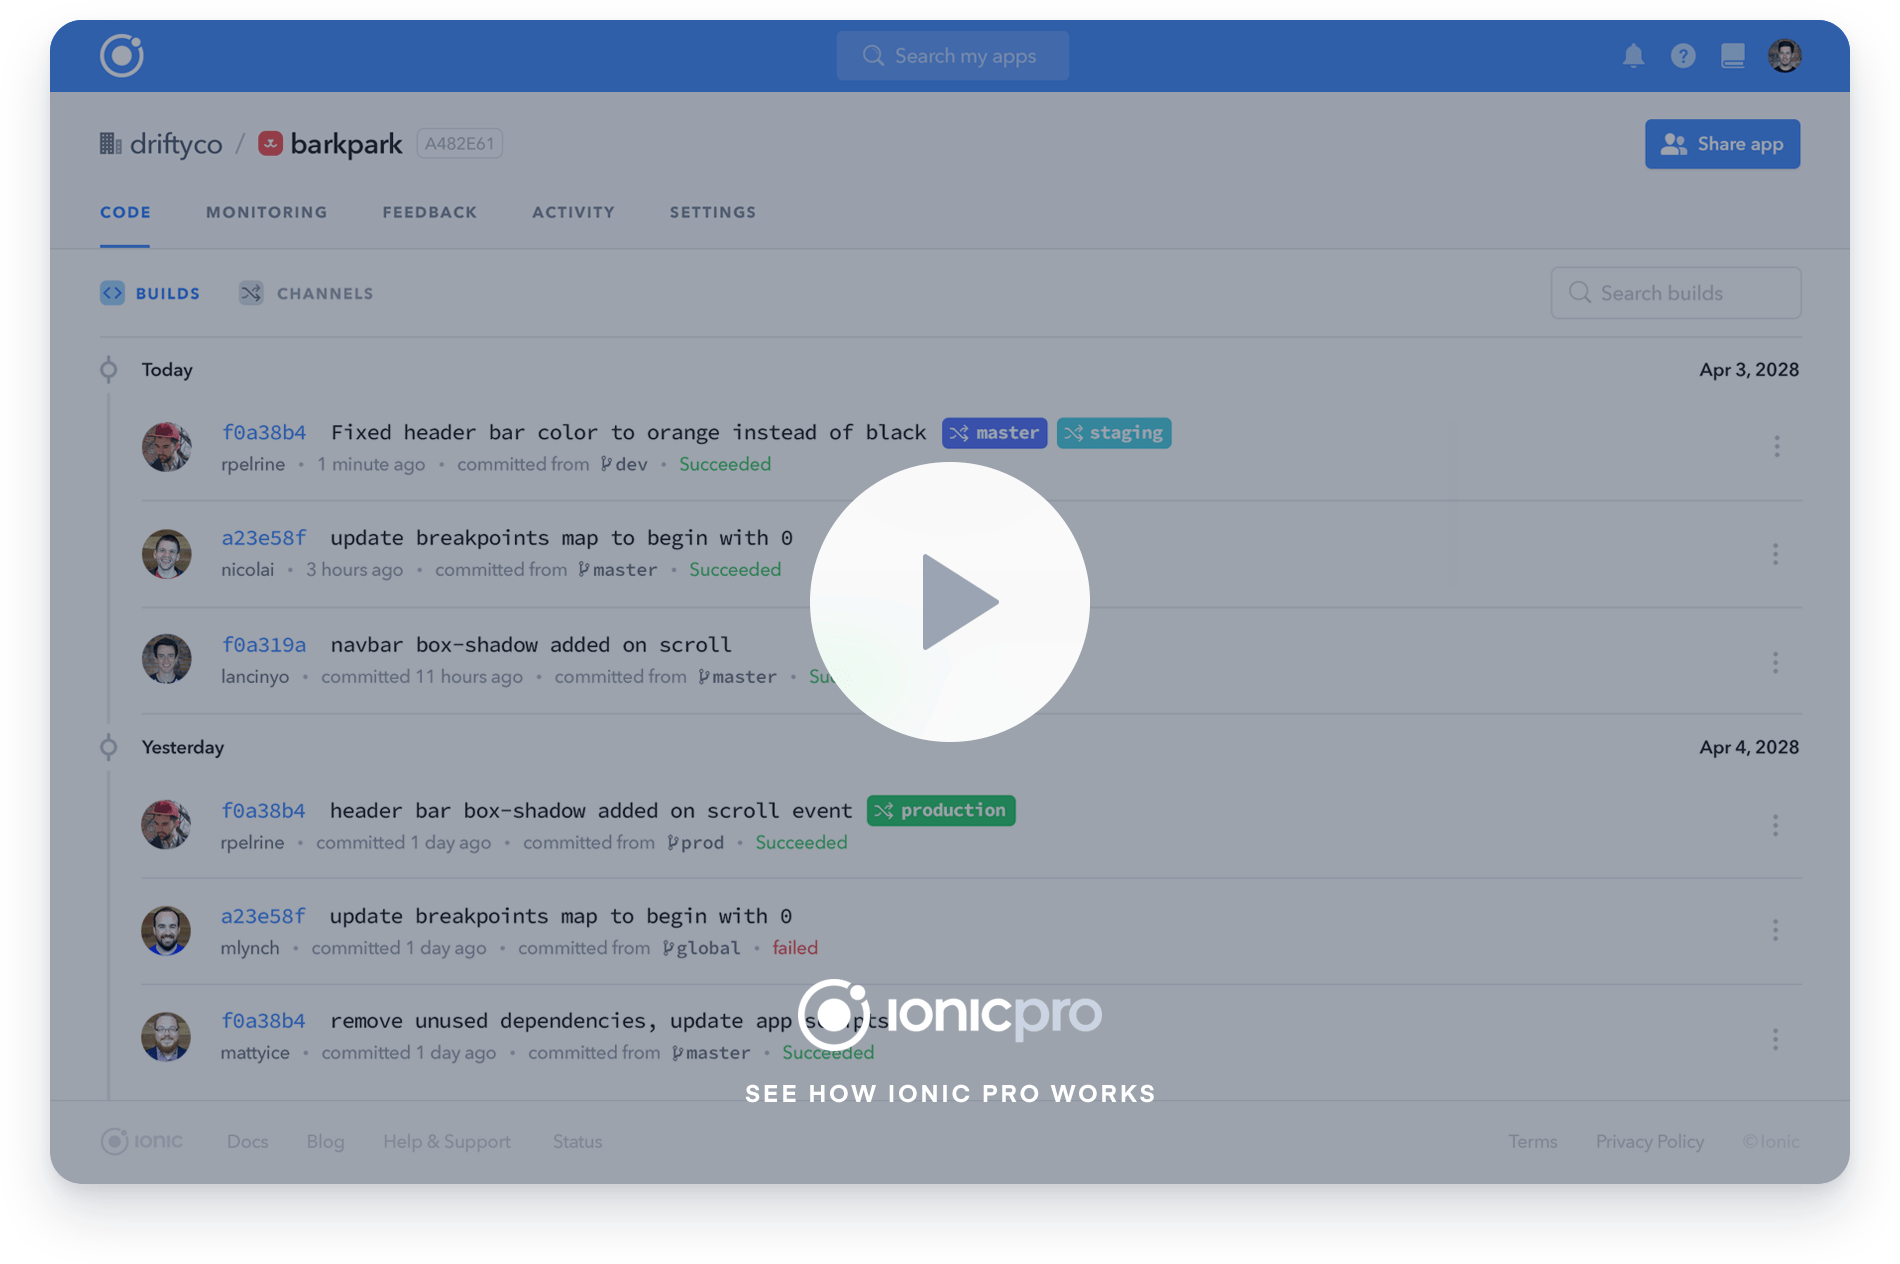
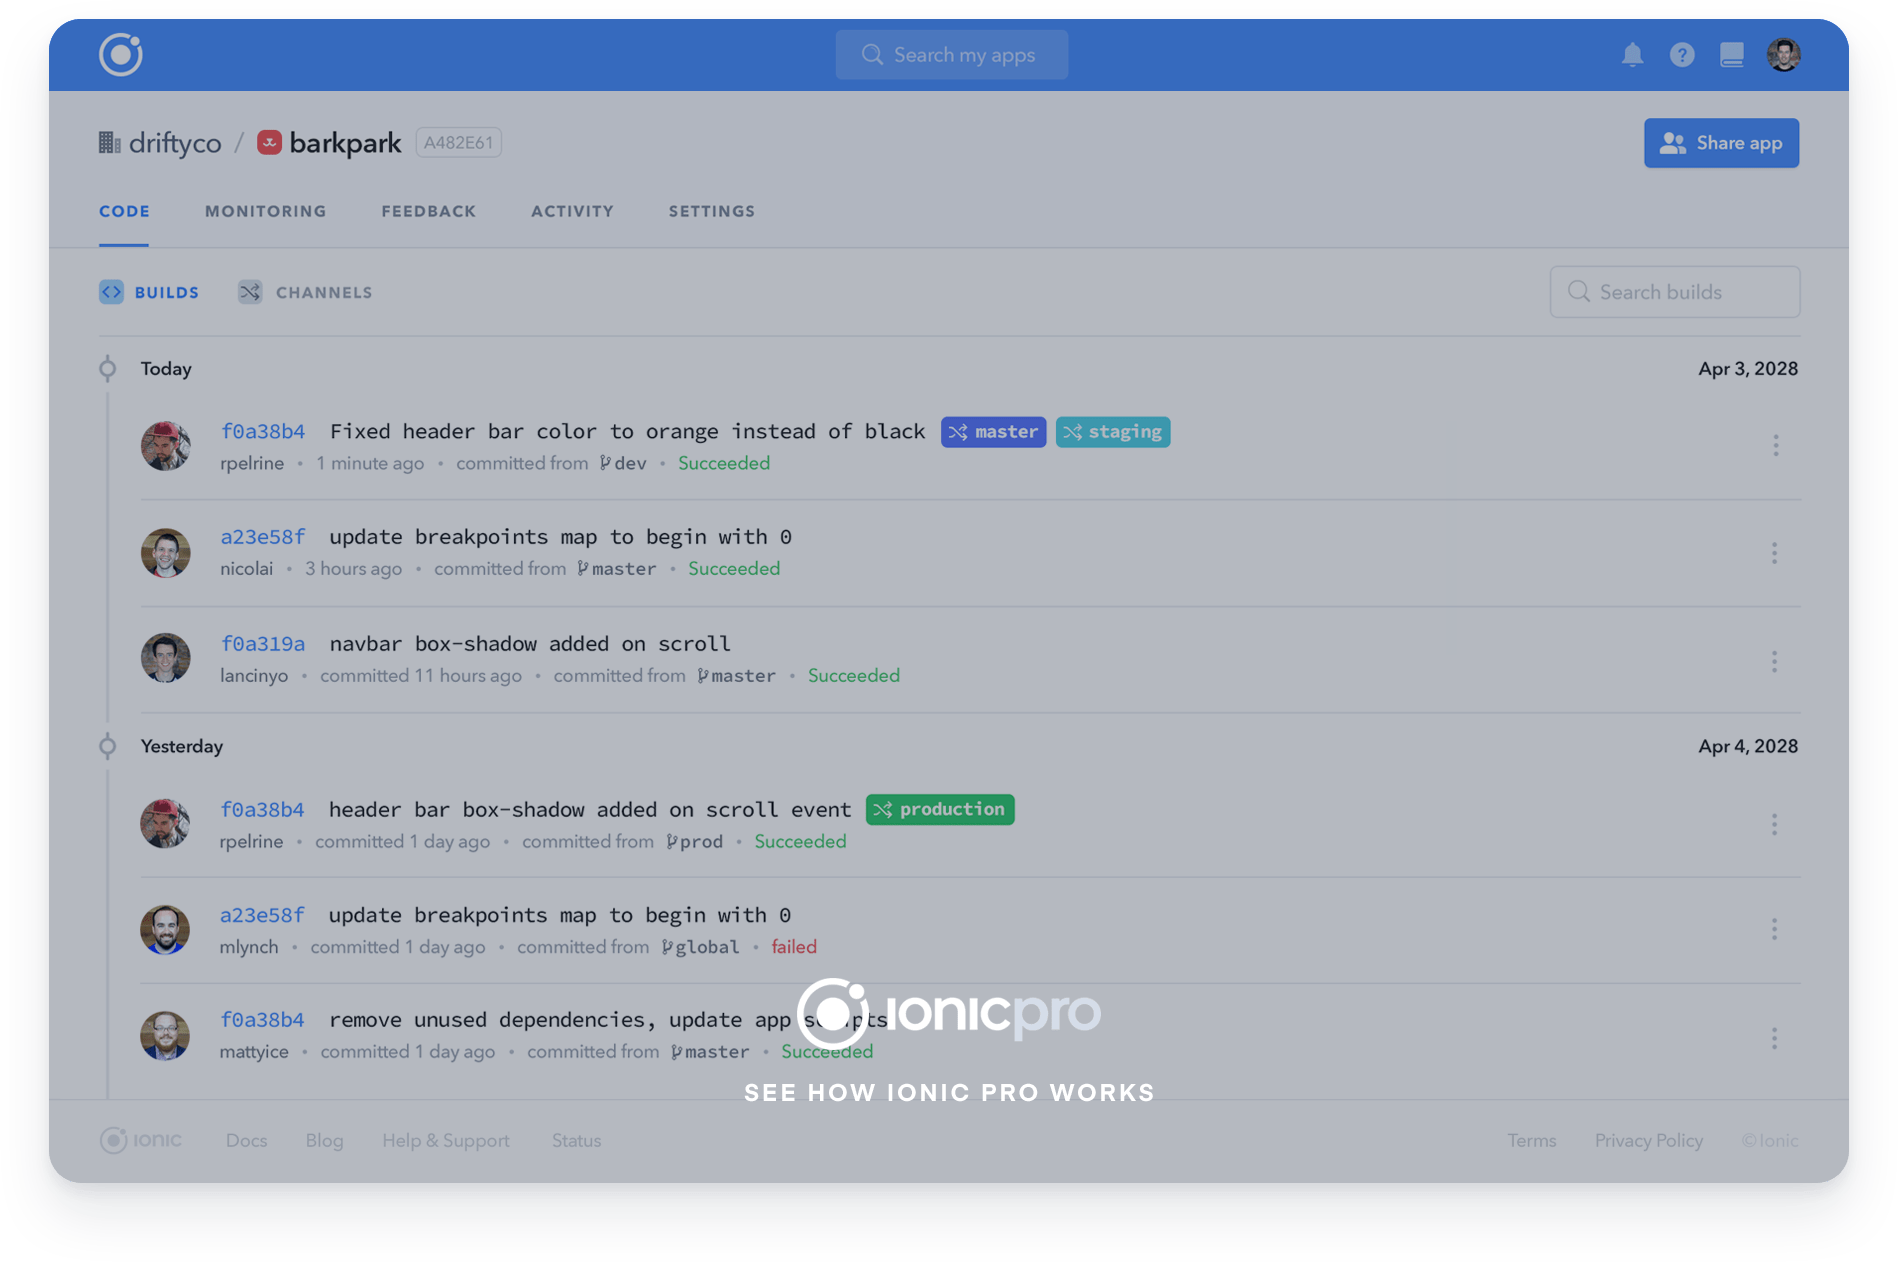
Fix video player z-index

diff --git a/assets/scss/pages/pro/_index.scss b/assets/scss/pages/pro/_index.scss
@@ -2,7 +2,6 @@
 
   .cta,
   .pro-nav,
-  .pro-nav-text,
   .pro-video,
   main {
     font-family: $font-family-eina;
@@ -14,8 +13,7 @@
 
   > .cta,
   > .pro-nav,
-  > .pro-nav-text,
-  > .video-player::before {
+  > .pro-video::before {
     background: #0d1321 no-repeat center bottom;
     background-image: linear-gradient(to right, #11182a 0%, #060c17 100%);
     background-size: 100%;
@@ -104,7 +102,7 @@
   .pro-nav--upper {
     position: sticky;
     top: 0;
-    z-index: 1;
+    z-index: 2;
 
     .container {
       padding-bottom: 1em;
@@ -220,6 +218,7 @@
     display: flex;
     justify-content: center;
     position: relative;
+    z-index: 1;
 
     &:before {
       content: "";
@@ -228,6 +227,17 @@
       left: 0;
       position: absolute;
       top: 0;
+      width: 100%;
+      z-index: 1;
+    }
+
+    .video-player {
+      max-width: calc(900px + 1em);
+      padding: 1em;
+      z-index: 2;
+    }
+
+    .video-player img {
       width: 100%;
     }
   }
@@ -400,7 +410,7 @@
     background-color: #f9fafc;
     color: #272a2f;
     padding-bottom: 67px;
-    padding-top: 67px;
+    padding-top: 30px;
 
     hgroup {
       max-width: 660px;
@@ -459,10 +469,6 @@
           margin-left: 24px;
         }
       }
-    }
-
-    @media (max-width: $screen-xs-max)  {
-      padding-top: 132px;
     }
 
     @media (max-width: 520px)  {

diff --git a/server/pages/pro/index.html b/server/pages/pro/index.html
@@ -74,7 +74,9 @@
 </div>
 
 <div class="pro-video">
-  <div class="video-player" data-youtube-id=""></div>
+  <div class="video-player" data-youtube-id="">
+    <img src="/img/pro/pro-dash-video-screenshot.png" alt="Ionic Pro Dashboard">
+  </div>
 </div>
 
 <main>
